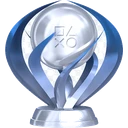
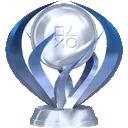
Trofeo de platino de fallback: limpia los restos del damero
El WebP tenía restos grises del damero de transparencia entre las cintas
(una cuña quedaba incluso opaca, arriba a la derecha) y un agujero en el
pedestal, porque su brillo blanco se confundía con el blanco del damero.
`scripts/clean-platinum-trophy.mjs` hace una segunda pasada: vuelve
transparentes los huecos, rellena el pedestal y suaviza el borde claro.

Claude-Session: https://claude.ai/code/session_01TvBatzLA7xey4mdQB6cDRC

diff --git a/CLAUDE.md b/CLAUDE.md
@@ -1082,7 +1082,8 @@ El cuarto botón: un log de frases, como la Activity de Letterboxd. Tabs **Amigo
   del diario sale de `formatDiaryDate` (partes del string + `Date.UTC`, nunca `new
   Date("YYYY-MM-DD")`). En el platino el avatar se reemplaza por `public/trophy-platinum.webp`,
   el trofeo que aportó el dueño del proyecto (`scripts/generate-platinum-trophy.mjs` le saca el
-  damero pintado del PNG original).
+  damero pintado del PNG original y `scripts/clean-platinum-trophy.mjs` limpia los restos que
+  quedaban entre las cintas y el agujero del pedestal).
 
 ## Perfil › Perfil (epic #183, issue #196)
 
